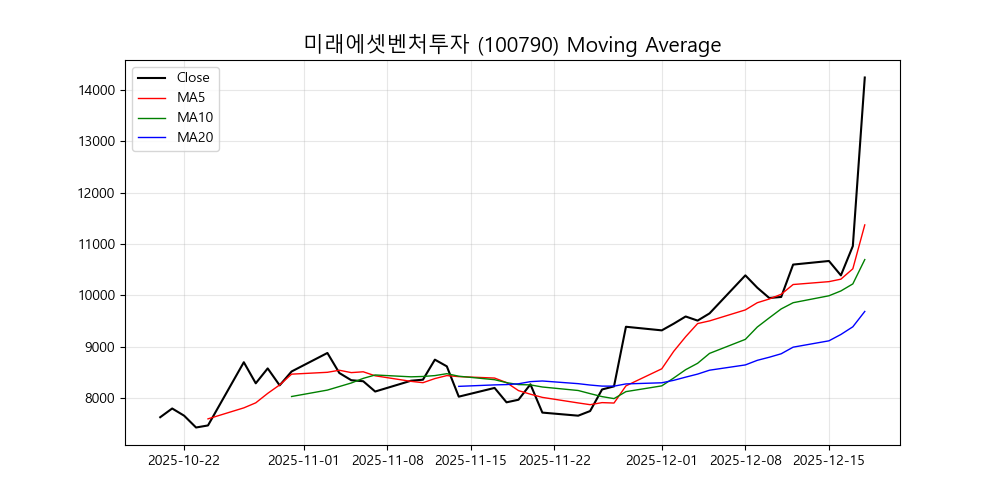
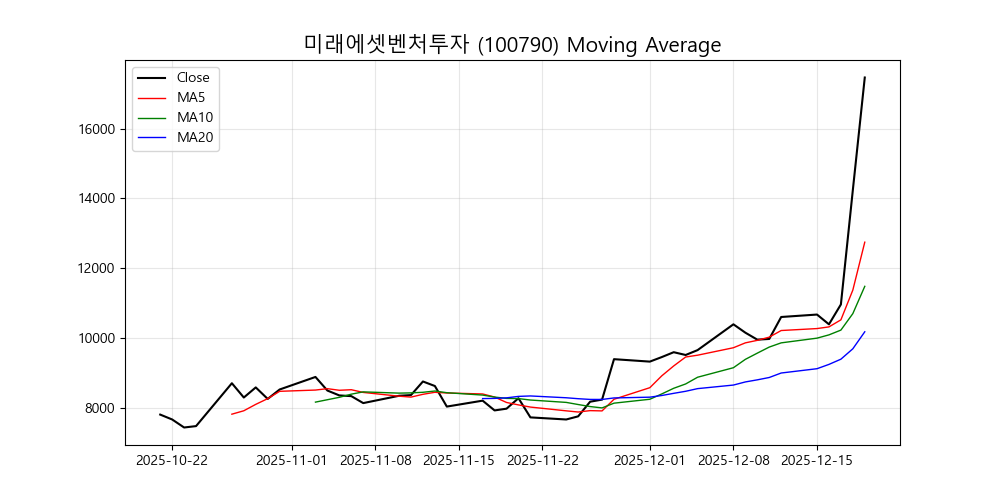
✅ Auto Strategy Report (2025-12-19)

diff --git a/_posts/2025-12-19-breakout.md b/_posts/2025-12-19-breakout.md
@@ -1,0 +1,122 @@
+---
+layout: single
+title: "[2025-12-19] 오늘의 급등주 포착 (정배열 돌파)"
+excerpt: "오늘 시장에서 급등하며 정배열 추세를 만든 종목들을 분석합니다."
+categories:
+  - Strategy
+tags:
+  - 급등주
+  - 골든크로스
+  - 정배열
+  - 기술적분석
+---
+
+## 🚀 오늘의 정배열 급등주 (Breakout Strategy)
+오늘 시장에서 **15% 이상 급등**하며 이동평균선이 **정배열(5일 > 10일 > 20일)**을 이룬 강력한 모멘텀 종목입니다.
+
+---
+
+## 🔥🚀🚨 오름테라퓨틱! 불기둥 솟아 오릅니다! 🚨🚀🔥
+
+구독자 50만 급등주 사냥꾼입니다! 오늘 시장의 뜨거운 감자, 바로 **오름테라퓨틱(475830)**이에요! 현재가 **105,600원**, 무려 **20.96% 폭등** 중! 대박이네요! 🔥 이 정도면 세력 형님들이 제대로 움직이기 시작했다는 신호 아닐까요? 지금 당장 집중하세요! 💰
+
+## 왜 이렇게 날아오르는 거죠?
+
+솔직히 오늘은 특별한 호재 뉴스보다 **차트와 수급**이 모든 걸 말해주고 있어요! 📈
+
+*   저희 AI 딥러닝 예측 결과에 따르면, **거래량이 무려 3.62배 폭증**했어요! 이건 세력 형님들이 확실히 붙었다는 강력한 신호죠! 💪
+*   차트에서도 완벽한 **정배열 골든크로스 돌파 패턴**이 포착되었어요. 추세 전환의 시작을 알리는 그림입니다!
+*   2025년 코스닥에 상장한 따끈따끈한 바이오 기업으로, 차세대 항암 치료제 기술을 가진 **글로벌 혁신신약 개발 전문 기업**이라는 점도 잠재력을 더하고 있어요!
+
+## 차트, 지금 당장 확인하세요!
+
+지금 오름테라퓨틱 차트를 펼쳐보면 눈이 번쩍 뜨이실 거예요! ✨
+
+*   **정배열 상태**에서 모든 이동평균선이 정갈하게 위를 향하고 있어요. 상승 탄력이 제대로 붙은 모습입니다!
+*   무엇보다 **압도적인 거래량 폭발**은 개미 털기를 끝내고 세력 형님들이 제대로 물량을 모아가고 있다는 증거예요. 이 정도 거래량은 쉽게 나오는 게 아니랍니다! 🚀
+*   강력한 **매수 신호**가 뿜어져 나오고 있는 상황이에요! 꽉 잡으세요!
+
+## 그래서 지금 사요? 말아요?
+
+가장 궁금하실 질문이죠! '급등주 사냥꾼'답게 시원하게 말씀드릴게요! 💥
+
+*   오름테라퓨틱은 지금 강력한 매수 신호가 터진 종목은 맞아요. 하지만 이미 **20% 이상 급등한 만큼, 섣부른 추격 매수는 위험**할 수 있습니다. 🙅♀
+*   저의 오랜 경험상, 이런 급등주는 **"눌림목"을 공략**하거나, 분할 매수 관점으로 **지속적인 관심**을 가져야 해요! 세력 형님들이 물량 테스트를 하며 흔들 때가 오히려 기회가 될 수 있답니다.
+*   절대 쫄지 마세요! 하지만 **확실한 타이밍을 노리는 지혜**가 필요해요. 저 '급등주 사냥꾼'과 함께 다음 기회를 절대 놓치지 마세요! 팔로우하고 알림 설정 필수! 🔔 성공 투자 갑시다! 💰💰💰
+
+![오름테라퓨틱 차트](/assets/chartimg/strategies/475830_ma.png)
+
+---
+
+🔥🚀💰 에스피지(058610) 오늘 난리 났습니다! 상한가 직전 26.86% 폭등 실화인가요?! 우리 구독자님들, 제대로 된 급등주 사냥꾼의 촉이 또 한 번 대박을 예감합니다! 꽉 잡으세요! 꽉!
+
+## 🚀 왜 에스피지가 이렇게 날아올랐을까요?!
+
+오늘 에스피지, 그야말로 미쳐 날뛰는 흐름 보여줬죠? 특별한 뉴스는 없었지만, 숨겨진 **세력 형님들의 움직임**과 AI 예측의 결과가 명확합니다!
+
+-   **미래 산업의 핵심 기술력**: 동사는 **정밀 제어용 모터 및 감속기** 분야에서 50년 이상 쌓아온 압도적인 기술력을 가지고 있어요. 로봇, 자동화, AI 등 4차 산업혁명 시대의 필수 부품을 만드는 **진정한 강소기업**입니다! 🚀
+-   **AI 딥러닝의 강력한 매수 신호**: 우리 AI 인공지능 예측 시스템이 **거래량 2.97배 폭증**과 함께 **정배열 골든크로스 돌파 패턴**을 잡아냈어요. 이건 그냥 가는 게 아니라, 제대로 된 신호탄이 터진 겁니다! 🔥
+-   **숨겨진 가치 재발견**: 이제 시장이 에스피지의 진정한 가치를 알아주기 시작한 거죠! 💰 잠재력이 어마어마한 종목이 드디어 빛을 보기 시작한 거예요!
+
+## ✨ 차트가 말해주는 세력 형님들의 시그널!
+
+차트 흐름도 예술입니다, 여러분! 우리 '급등주 사냥꾼'의 눈에는 모든 게 보입니다!
+
+-   **압도적인 정배열**: 차트가 아름다운 **정배열 상태**를 유지하고 있어요. 모든 이평선들이 완벽하게 정렬하며 상승 에너지를 뿜어내고 있습니다. 이게 바로 **세력 형님들이 물량을 모으고 올리는 전형적인 패턴**이에요! 📈
+-   **거래량 2.97배 폭증**: 오늘 터진 **엄청난 거래량** 보이시죠? 평소보다 거의 3배 가까이 터졌다는 건, **새로운 수급이 강력하게 유입**됐다는 증거입니다. 절대 개미들만의 힘으로는 이런 거래량을 만들 수 없어요! **세력 형님들의 확실한 매집 흔적**이죠! 💥
+
+## 🧐 "지금 사요?" 시원하게 대답해 드릴게요!
+
+오늘 같은 대폭등장에서 가장 많이 하시는 질문! "급등주 사냥꾼님, 지금이라도 들어가야 할까요?"
+
+-   **관심 종목 1순위 편입**: 지금 당장 무작정 추격 매수보다는, **관심 종목 1순위**에 넣어두고 지속적으로 지켜봐야 합니다! 오늘 제대로 포텐 터진 만큼, 한 번 더 도약할 에너지가 충분해요.
+-   **눌림목 공략 준비**: 이렇게 크게 오른 날은 **단기적인 숨 고르기(눌림목)** 구간이 올 수도 있습니다. 그때를 놓치지 않고 **분할 매수 관점**으로 접근하는 전략이 현명합니다. 절대로 한 번에 몰빵하지 마세요!
+-   **손절가 및 목표가 설정**: 항상 철저한 **리스크 관리**는 필수! 자신만의 **손절가와 목표가**를 설정하고, 시장의 흐름을 보면서 유연하게 대응해야 합니다.
+
+에스피지, 이대로 끝날 종목이 아닙니다! **미래 성장 동력**을 갖춘 기업인 만큼, 앞으로도 우리에게 **수익의 기쁨**을 안겨줄 겁니다! 우리 '급등주 사냥꾼' 가족 여러분, 에스피지 움직임 놓치지 마시고, 다음 주도 파이팅입니다! 🔥🚀💰
+
+![에스피지 차트](/assets/chartimg/strategies/058610_ma.png)
+
+---
+
+🚨🚨🚨 속보입니다, 구독자님들! 🚨🚨🚨
+
+오늘 주식 시장의 뜨거운 감자! 🔥 바로 **미래에셋벤처투자 (100790)**입니다!
+장중 무려 **23.03%**라는 경이로운 폭등을 보여주고 있어요! 🚀🚀🚀 세력 형님들이 드디어 시동을 거는 걸까요? 제가 놓칠 리 없죠! 바로 분석 들어갑니다!
+
+## 🔥 미래에셋벤처투자, 오늘 제대로 불 뿜었네요!
+
+여러분, 오늘 미래에셋벤처투자 차트 보셨어요? 시작부터 심상치 않더니, 결국 **17520원**까지 치솟으며 강력한 상승세를 보여줬습니다! 💰💰💰 우리 구독자님들 중에 미리 잡으신 분들 계신가요? 대박이네요!
+
+## 🚀 왜 이렇게 날아올랐을까요? (급등 사유 3줄 요약!)
+
+솔직히 오늘 특별한 뉴스가 터진 건 아니에요. 하지만 이럴 때가 더 무서운 거 아시죠? **세력 형님들의 은밀한 움직임**이 포착된 겁니다!
+
+-   첫째, 우리 **AI 딥러닝**이 강력한 **매수 신호**를 잡았어요! 보이지 않는 손들의 매집이 시작됐다는 뜻이죠.
+-   둘째, 국내 최고 벤처캐피탈로서 **미래에셋그룹**이라는 든든한 배경을 등에 업고 있다는 점이 재조명되고 있습니다.
+-   셋째, 요즘 시장에서 다시금 **성장주, 기술주 투자**에 대한 기대감이 피어오르면서 벤처 투자 섹터 전체에 훈풍이 불어오는 분위기예요!
+
+## 📈 차트 체크! 세력 형님들의 움직임이 심상치 않아요!
+
+차트를 보면 더 확실합니다!
+
+-   오늘 **거래량이 무려 3.09배나 폭증**했어요! 🚀 이건 개미들이 만들 수 있는 움직임이 아니죠? 확실히 **세력 형님들**이 물량을 쓸어 담고 있다는 강력한 증거입니다!
+-   게다가 차트가 아름다운 **정배열 골든크로스 패턴**을 돌파했습니다! 🎯 이건 교과서적인 상승 추세 전환 신호예요. 이평선들이 줄 맞춰 정렬하면서 강력한 에너지를 응축하고 있다는 뜻이죠!
+
+## 🎯 그래서, 지금 사야 할까요?! (급등주 사냥꾼의 대응법!)
+
+자, 이게 가장 궁금하실 텐데요! 급등주 사냥꾼은 무조건 묻지마 투자를 권하지 않습니다! 🚨
+
+-   **추격 매수? NO!** 이미 많이 오른 자리에서 덥석 잡는 건 **개미 털기**에 당할 확률이 높아요. 지금 당장 따라잡기보다는 관망하는 자세가 필요합니다!
+-   **지지선 확인 필수!** 오늘 폭등했지만, 이게 지속적인 상승으로 이어질지는 지켜봐야 합니다. 혹시 모를 조정에 대비해 **의미 있는 지지선**을 확인하고 접근하는 게 현명해요.
+-   **분할 매수 전략!** 만약 이 종목에 관심이 있다면, 한 번에 큰 금액을 넣지 말고 **분할 매수로 접근**해서 리스크를 분산하는 전략이 필요합니다!
+-   **관심 종목 추가!** 오늘 강력한 신호를 보여줬으니, 일단 여러분의 **관심 종목 리스트 최상단**에 올려두고 면밀히 지켜보세요! 세력 형님들이 또 어떤 움직임을 보여줄지, 다음 흐름을 예측하는 게 중요합니다!
+
+미래에셋벤처투자, 오늘 시장에 강렬한 존재감을 각인시켰습니다! 우리 구독자님들, 앞으로도 저 급등주 사냥꾼이 시장의 뜨거운 종목들 놓치지 않고 빠르게 분석해 드릴게요! 💰 늘 신중하고 현명한 투자하세요! 화이팅! 🔥🔥🔥
+
+![미래에셋벤처투자 차트](/assets/chartimg/strategies/100790_ma.png)
+
+---
+
+
+*본 데이터는 투자를 권유하는 것이 아니며, 모든 투자의 책임은 본인에게 있습니다.*
